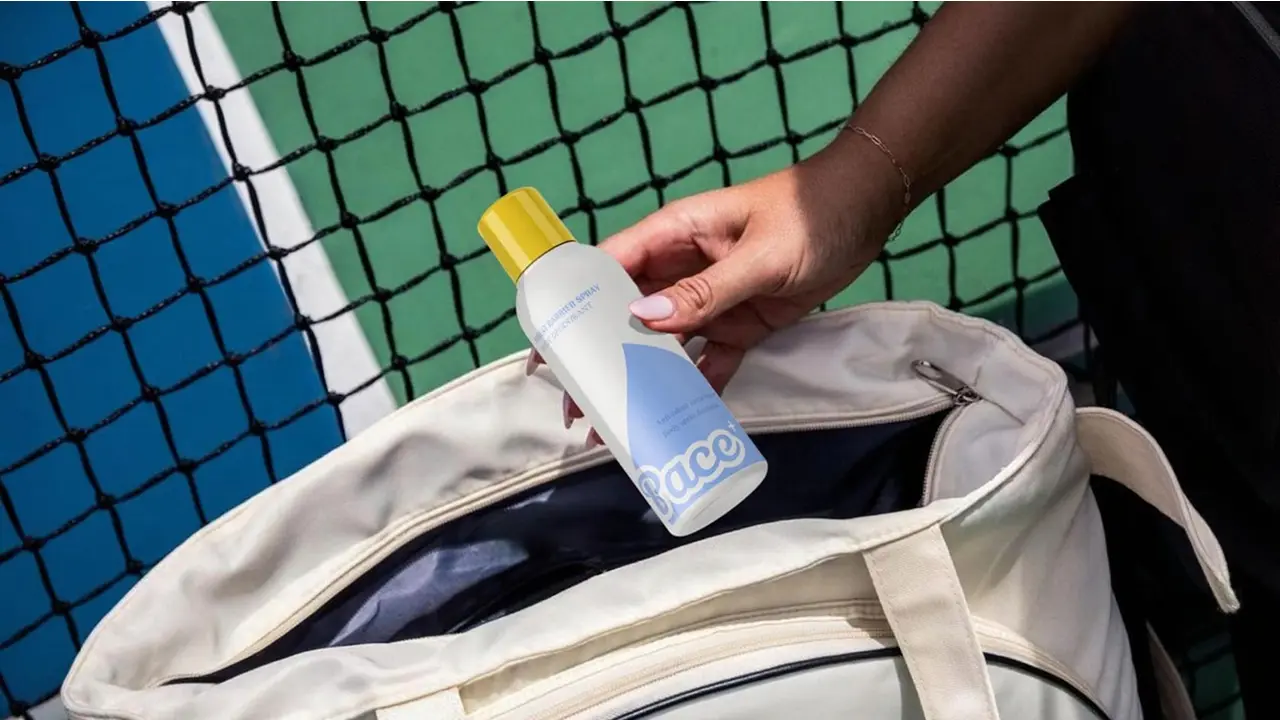
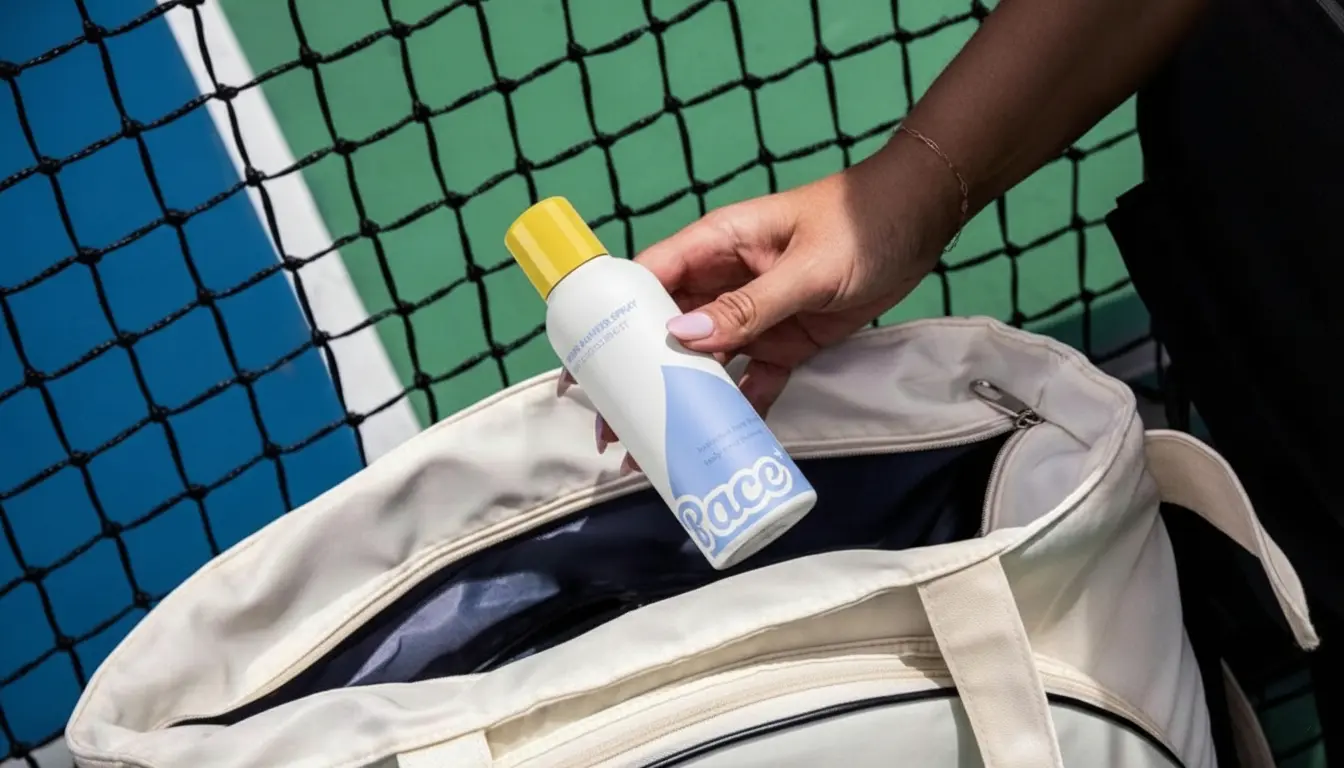
adding some extra images

diff --git a/projects/rollna.html b/projects/rollna.html
@@ -57,6 +57,8 @@
         <img src="../images/rollna-01.webp"/>
         <img src="../images/rollna-02.webp"/>
         <img src="../images/rollna-03.webp"/>
+        <img src="../images/rollna-04.webp"/>
+
     </div>
 
 
